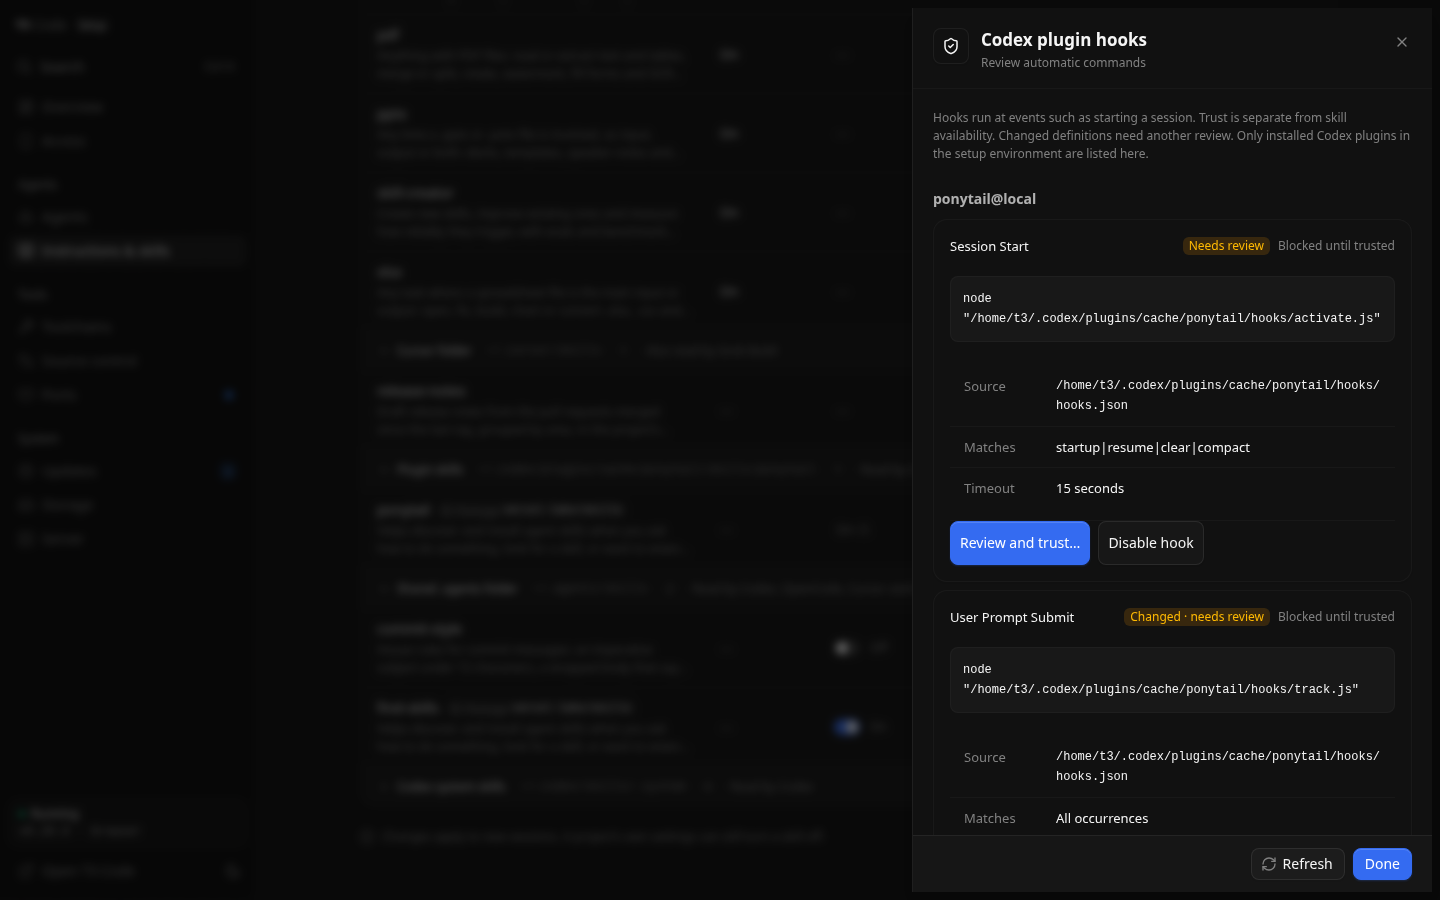
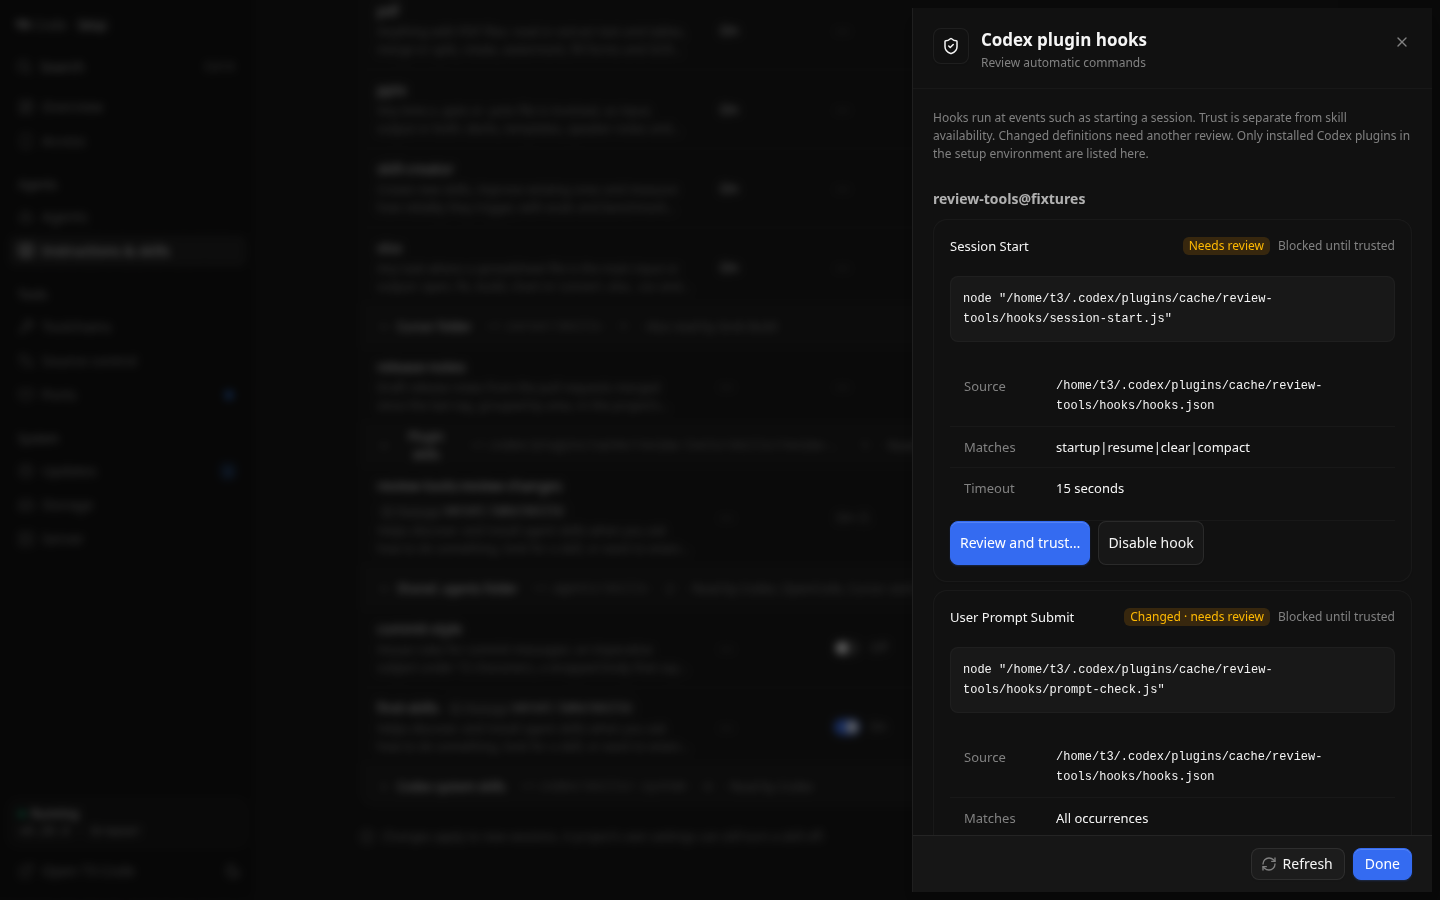
test(skills): cover varied layouts and multiple plugins

diff --git a/scripts/skills-hooks-ui-audit.js b/scripts/skills-hooks-ui-audit.js
@@ -19,8 +19,8 @@ const deferred = () => { let resolve; const promise = new Promise(done => { reso
       page.setDefaultTimeout(8000);
       await page.addInitScript(value => localStorage.setItem('t3-console-theme', value), theme);
       const api = createSkillsFixtures(), errors = [], writes = [];
-      api.inventories.codex.skills.push({ ...api.inventories.codex.skills[0], id: 'ponytail-plugin-skill', name: 'ponytail', source: 'Plugin', scope: 'user', pluginId: 'ponytail@local',
-        path: '/home/t3/.codex/plugins/cache/ponytail/skills/ponytail/SKILL.md', resolvedPath: '/home/t3/.codex/plugins/cache/ponytail/skills/ponytail/SKILL.md',
+      api.inventories.codex.skills.push({ ...api.inventories.codex.skills[0], id: 'review-plugin-skill', name: 'review-tools:review-changes', source: 'Plugin', scope: 'user', pluginId: 'review-tools@fixtures',
+        path: '/home/t3/.codex/plugins/cache/review-tools/skills/review-changes/SKILL.md', resolvedPath: '/home/t3/.codex/plugins/cache/review-tools/skills/review-changes/SKILL.md',
         canEdit: false, canRemove: false, canToggle: false, canSetState: false, stateReadOnlyReason: 'Managed through the plugin' });
       let reads = 0, getGate, getStarted, saveGate, saveStarted, failRead = false, failSave = false, empty = false;
       page.on('pageerror', error => errors.push(error.message));
@@ -52,12 +52,13 @@ const deferred = () => { let resolve; const promise = new Promise(done => { reso
       await target.locator('[data-cmd="skills.hooks"]').click();
       const sheet = target.locator('.tc-skill-hooks'), first = () => sheet.locator('[data-hook="fixture-hook-0"]');
       await first().waitFor(); assert.equal(await sheet.locator('.tc-hook').count(), 3);
+      assert.equal(await sheet.getByRole('heading', { level: 3 }).count(), 2, 'Hooks are grouped by installed plugin');
       assert.match(await sheet.innerText(), /Changed · needs review/); assert.match(await sheet.innerText(), /Disabled/);
       await page.screenshot({ path: path.join(output, `${theme}-${width}${embedded ? '-embedded' : ''}-hooks.png`) });
       assert(await sheet.evaluate(el => el.scrollWidth <= el.clientWidth + 1));
       await first().getByRole('button', { name: 'Review and trust…' }).click();
       const confirm = target.getByRole('alertdialog'); await confirm.waitFor();
-      assert.match(await confirm.innerText(), /activate.js/); await confirm.getByRole('button', { name: 'Cancel' }).click();
+      assert.match(await confirm.innerText(), /session-start.js/); await confirm.getByRole('button', { name: 'Cancel' }).click();
       assert.equal(writes.length, 0); assert(await first().getByRole('button', { name: 'Review and trust…' }).evaluate(el => el === document.activeElement));
       saveGate = deferred(); saveStarted = deferred();
       await first().getByRole('button', { name: 'Review and trust…' }).click(); await confirm.getByRole('button', { name: 'Trust this hook', exact: true }).click();
@@ -65,6 +66,7 @@ const deferred = () => { let resolve; const promise = new Promise(done => { reso
       assert(await sheet.getByRole('button', { name: 'Done', exact: true }).isDisabled());
       assert(await target.evaluate(() => { const event = new Event('beforeunload', { cancelable: true }); dispatchEvent(event); return event.defaultPrevented; }));
       saveGate.resolve(); await first().getByText('Trusted', { exact: true }).waitFor(); assert.equal(writes.length, 1);
+      assert.equal(api.hooks[2].enabled, false, 'Trusting one plugin leaves other plugins unchanged');
       await first().getByRole('button', { name: 'Disable hook' }).click(); await first().getByText('Disabled', { exact: true }).waitFor();
       await first().getByRole('button', { name: 'Enable hook…' }).click(); await confirm.getByRole('button', { name: 'Enable hook', exact: true }).click();
       await first().getByText('Enabled', { exact: true }).waitFor();
@@ -85,9 +87,12 @@ const deferred = () => { let resolve; const promise = new Promise(done => { reso
       failRead = false; empty = true; await target.locator('.tc-skill-hooks').getByRole('button', { name: 'Refresh', exact: true }).click();
       await target.getByText('No installed Codex plugins with hooks were found.', { exact: false }).waitFor();
       await target.locator('.tc-skill-hooks').getByRole('button', { name: 'Done', exact: true }).click(); empty = false;
-      const skill = target.locator(width < 640 ? '.tc-prow' : '.tc-skill-name').filter({ hasText: 'ponytail' }); await skill.click();
+      const skill = target.locator(width < 640 ? '.tc-prow' : '.tc-skill-name').filter({ hasText: 'review-tools:review-changes' }); await skill.click();
       await target.getByRole('button', { name: 'Review plugin hooks…' }).click(); await target.locator('.tc-skill-hooks .tc-hook').first().waitFor();
+      assert.equal(await target.locator('.tc-skill-hooks .tc-hook').count(), 2, 'The inspector limits review to its owning plugin');
       assert(await target.locator('.tc-skill-hooks').getByRole('button', { name: 'All plugins' }).isVisible());
+      await target.locator('.tc-skill-hooks').getByRole('button', { name: 'All plugins' }).click();
+      assert.equal(await target.locator('.tc-skill-hooks .tc-hook').count(), 3);
       await page.keyboard.press('Escape'); await target.locator('.tc-skill-hooks').waitFor({ state: 'hidden' });
       assert(await target.getByRole('button', { name: 'Review plugin hooks…' }).isVisible());
       assert.deepEqual(errors, []); console.log('Plugin hooks UI passed:', theme, width, embedded ? 'embedded' : 'standalone');
